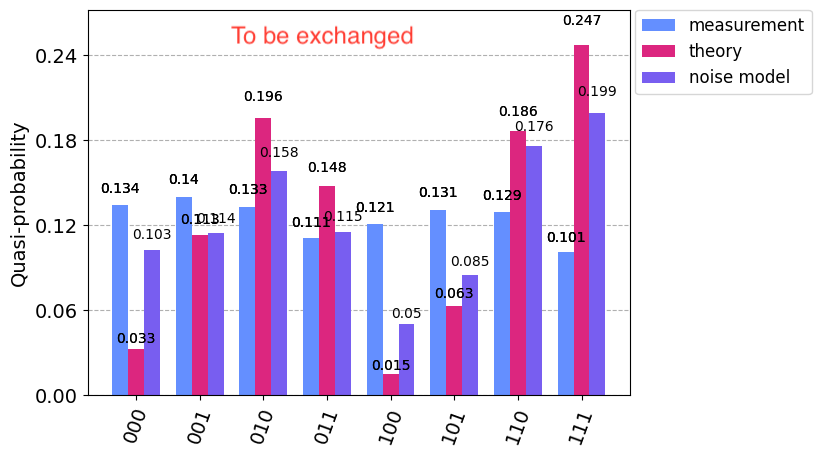
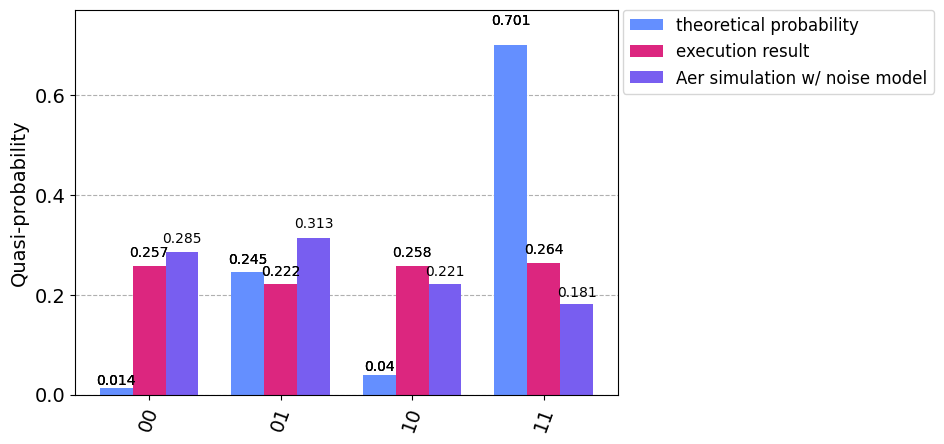
update tutorial

diff --git a/docs/source/tutorial.rst b/docs/source/tutorial.rst
@@ -22,72 +22,73 @@ Generating MBQC pattern
 -------------------------------
 
 We first generate a MBQC pattern using ``graphix`` library.
-We use the 3-qubit QFT as an example.
+We use the 2-qubit QFT as an example.
 
-First, let us import relevant modules and define additional gates and function we'll use:
+First, let us import relevant modules and define function we will use:
 
 .. code-block:: python
 
+    from graphix import Circuit
+    from graphix_ibmq.runner import IBMQBackend
+    import qiskit.quantum_info as qi
+    from qiskit.visualization import plot_histogram
     import numpy as np
     import matplotlib.pyplot as plt
     import networkx as nx
-    import random
-    from graphix import Circuit
-    from graphix_ibmq.runner import IBMQBackend
-    from qiskit import IBMQ
-    from qiskit.tools.visualization import plot_histogram
-    from qiskit.providers.fake_provider import FakeLagos
+    from qiskit_ibm_provider import IBMProvider
 
 
+    #define the functions required for QFT
     def cp(circuit, theta, control, target):
-        """Controlled phase gate, decomposed"""
+        """Controlled phase gate, decomposed
+        """
         circuit.rz(control, theta / 2)
         circuit.rz(target, theta / 2)
         circuit.cnot(control, target)
         circuit.rz(target, -1 * theta / 2)
         circuit.cnot(control, target)
 
-
     def swap(circuit, a, b):
-        """swap gate, decomposed"""
+        """swap gate, decomposed
+        """
         circuit.cnot(a, b)
         circuit.cnot(b, a)
         circuit.cnot(a, b)
 
-Then we define a circuit to apply QFT to three-qubit state.
+    def qft_rotations(circuit, n):
+        """h and cp gates for each qubit
+        """
+        if n == circuit.width:
+            return circuit
+        circuit.h(n)
+        for qubit in range(n+1, circuit.width):
+            cp(circuit, np.pi / 2 ** (qubit - n), qubit, n)
+
+    def swap_registers(circuit, n):
+        """swap qubits for the output
+        """
+        for qubit in range(n // 2):
+            swap(circuit, qubit, n - qubit - 1)
+        return circuit
+
+    def qft(circuit, n):
+        """generate QFT circuit
+        """
+        for i in range(n):
+            qft_rotations(circuit, i)
+        swap_registers(circuit, n)
+
+Then we define a circuit to apply QFT to two-qubit state.
 
 .. code-block:: python
 
-    circuit = Circuit(3)
-    for i in range(3):
-        circuit.h(i)
-
-    psi = {}
-    # prepare random state for each input qubit
-    for i in range(3):
-        theta = random.uniform(0, np.pi)
-        phi = random.uniform(0, 2 * np.pi)
-        circuit.ry(i, theta)
-        circuit.rz(i, phi)
-        psi[i] = [np.cos(theta / 2), np.sin(theta / 2) * np.exp(1j * phi)]
-
-    # 8 dimension input statevector
-    input_state = [0] * 8
-    for i in range(8):
-        i_str = f"{i:03b}"
-        input_state[i] = psi[0][int(i_str[0])] * psi[1][int(i_str[1])] * psi[2][int(i_str[2])]
-
-    # QFT
-    circuit.h(0)
-    cp(circuit, np.pi / 2, 1, 0)
-    cp(circuit, np.pi / 4, 2, 0)
-    circuit.h(1)
-    cp(circuit, np.pi / 2, 2, 1)
-    circuit.h(2)
-    swap(circuit, 0, 2)
-
-    # transpile and plot the graph
+    # generate the 2-qubit QFT pattern
+    n = 2
+    circuit = Circuit(n)
+    qft(circuit, n)
     pattern = circuit.transpile()
+
+    #plot the pattern
     nodes, edges = pattern.get_graph()
     g = nx.Graph()
     g.add_nodes_from(nodes)
@@ -96,7 +97,7 @@ Then we define a circuit to apply QFT to three-qubit state.
     nx.draw(g)
     plt.show()
 
-.. figure:: ./../imgs/3qft_pattern.png
+.. figure:: ./../imgs/2qft_pattern.png
    :scale: 100 %
    :alt: 3-qubi qft pattern visualization
 
@@ -107,13 +108,19 @@ Now let us convert the pattern to qiskit circuit.
 
 .. code-block:: python
 
-    # minimize the space to save memory during aer simulation.
+    # minimize the space of pattern.
     pattern.minimize_space()
 
     # convert to qiskit circuit
     backend = IBMQBackend(pattern)
     backend.to_qiskit()
     print(type(backend.circ))
+
+    #set the rondom input state
+    psi = []
+    for i in range(n):
+        psi.append(qi.random_statevector(2, seed=100+i))
+    backend.set_input(psi)
 
 .. rst-class:: sphx-glr-script-out
 
@@ -127,23 +134,19 @@ Get the API token and load the IBMQ acount.
 
 .. code-block:: python
 
-    IBMQ.save_account("MY_API_TOKEN", overwrite=True)
-    IBMQ.load_account()
+    # load the account with API token
+    #IBMProvider.save_account(token='MY API TOKEN')
 
-Get provider and the backend.
-
-.. code-block:: python
-
-    instance_name = "ibm-q/open/main"
-    backend_name = "ibm_lagos"
-
-    backend.get_backend(instance=instance_name, resource=backend_name)
+    # get the device backend
+    instance_name = 'your/instance/name'
+    backend_name = "ibm_hanoi"
+    backend.get_backend(instance=instance_name,resource=backend_name)
 
 .. rst-class:: sphx-glr-script-out
 
  .. code-block:: none
 
-    Using backend ibm_lagos
+    Using backend ibm_hanoi
 
 .. code-block:: python
 
@@ -174,24 +177,31 @@ Now let us compare the results with theoretical output
 .. code-block:: python
 
     # calculate the theoretical output state
-    state = [0] * 8
-    omega = np.exp(1j * np.pi / 4)
+    def to_binary(i, n):
+        return format(i, '0' + str(n) + 'b')
 
-    for i in range(8):
-        for j in range(8):
-            state[i] += input_state[j] * omega ** (i * j) / 2**1.5
+    def state_tensor_prod(psi):
+        n = len(psi)
+        state = [1]*2**n 
+        for i in range(2**n): 
+            i_str = to_binary(i, n)
+            for j in range(n):
+                state[i] *= psi[j][int(i_str[j])]
+        return state
+   
+    state = state_tensor_prod(psi)
 
     # calculate the theoretical counts
     count_theory = {}
-    for i in range(2**3):
-        count_theory[f"{i:03b}"] = 1024 * np.abs(state[i]) ** 2
+    for i in range(len(state)):
+        count_theory[f"{i:02b}"] = 1024*np.abs(state[i])**2
 
     # plot and compare the results
     plot_histogram(
         [count_theory, result, result_noise],
-        legend=["theoretical probability", "execution results", "aer simulation with noise model"],
+        legend=["theoretical probability", "execution results", "aer simulation w/ noise model"],
     )
 
 .. figure:: ./../imgs/execution_output.png
-   :scale: 90 %
+   :scale: 75 %
    :alt: execution results with simulation and theoretical output
